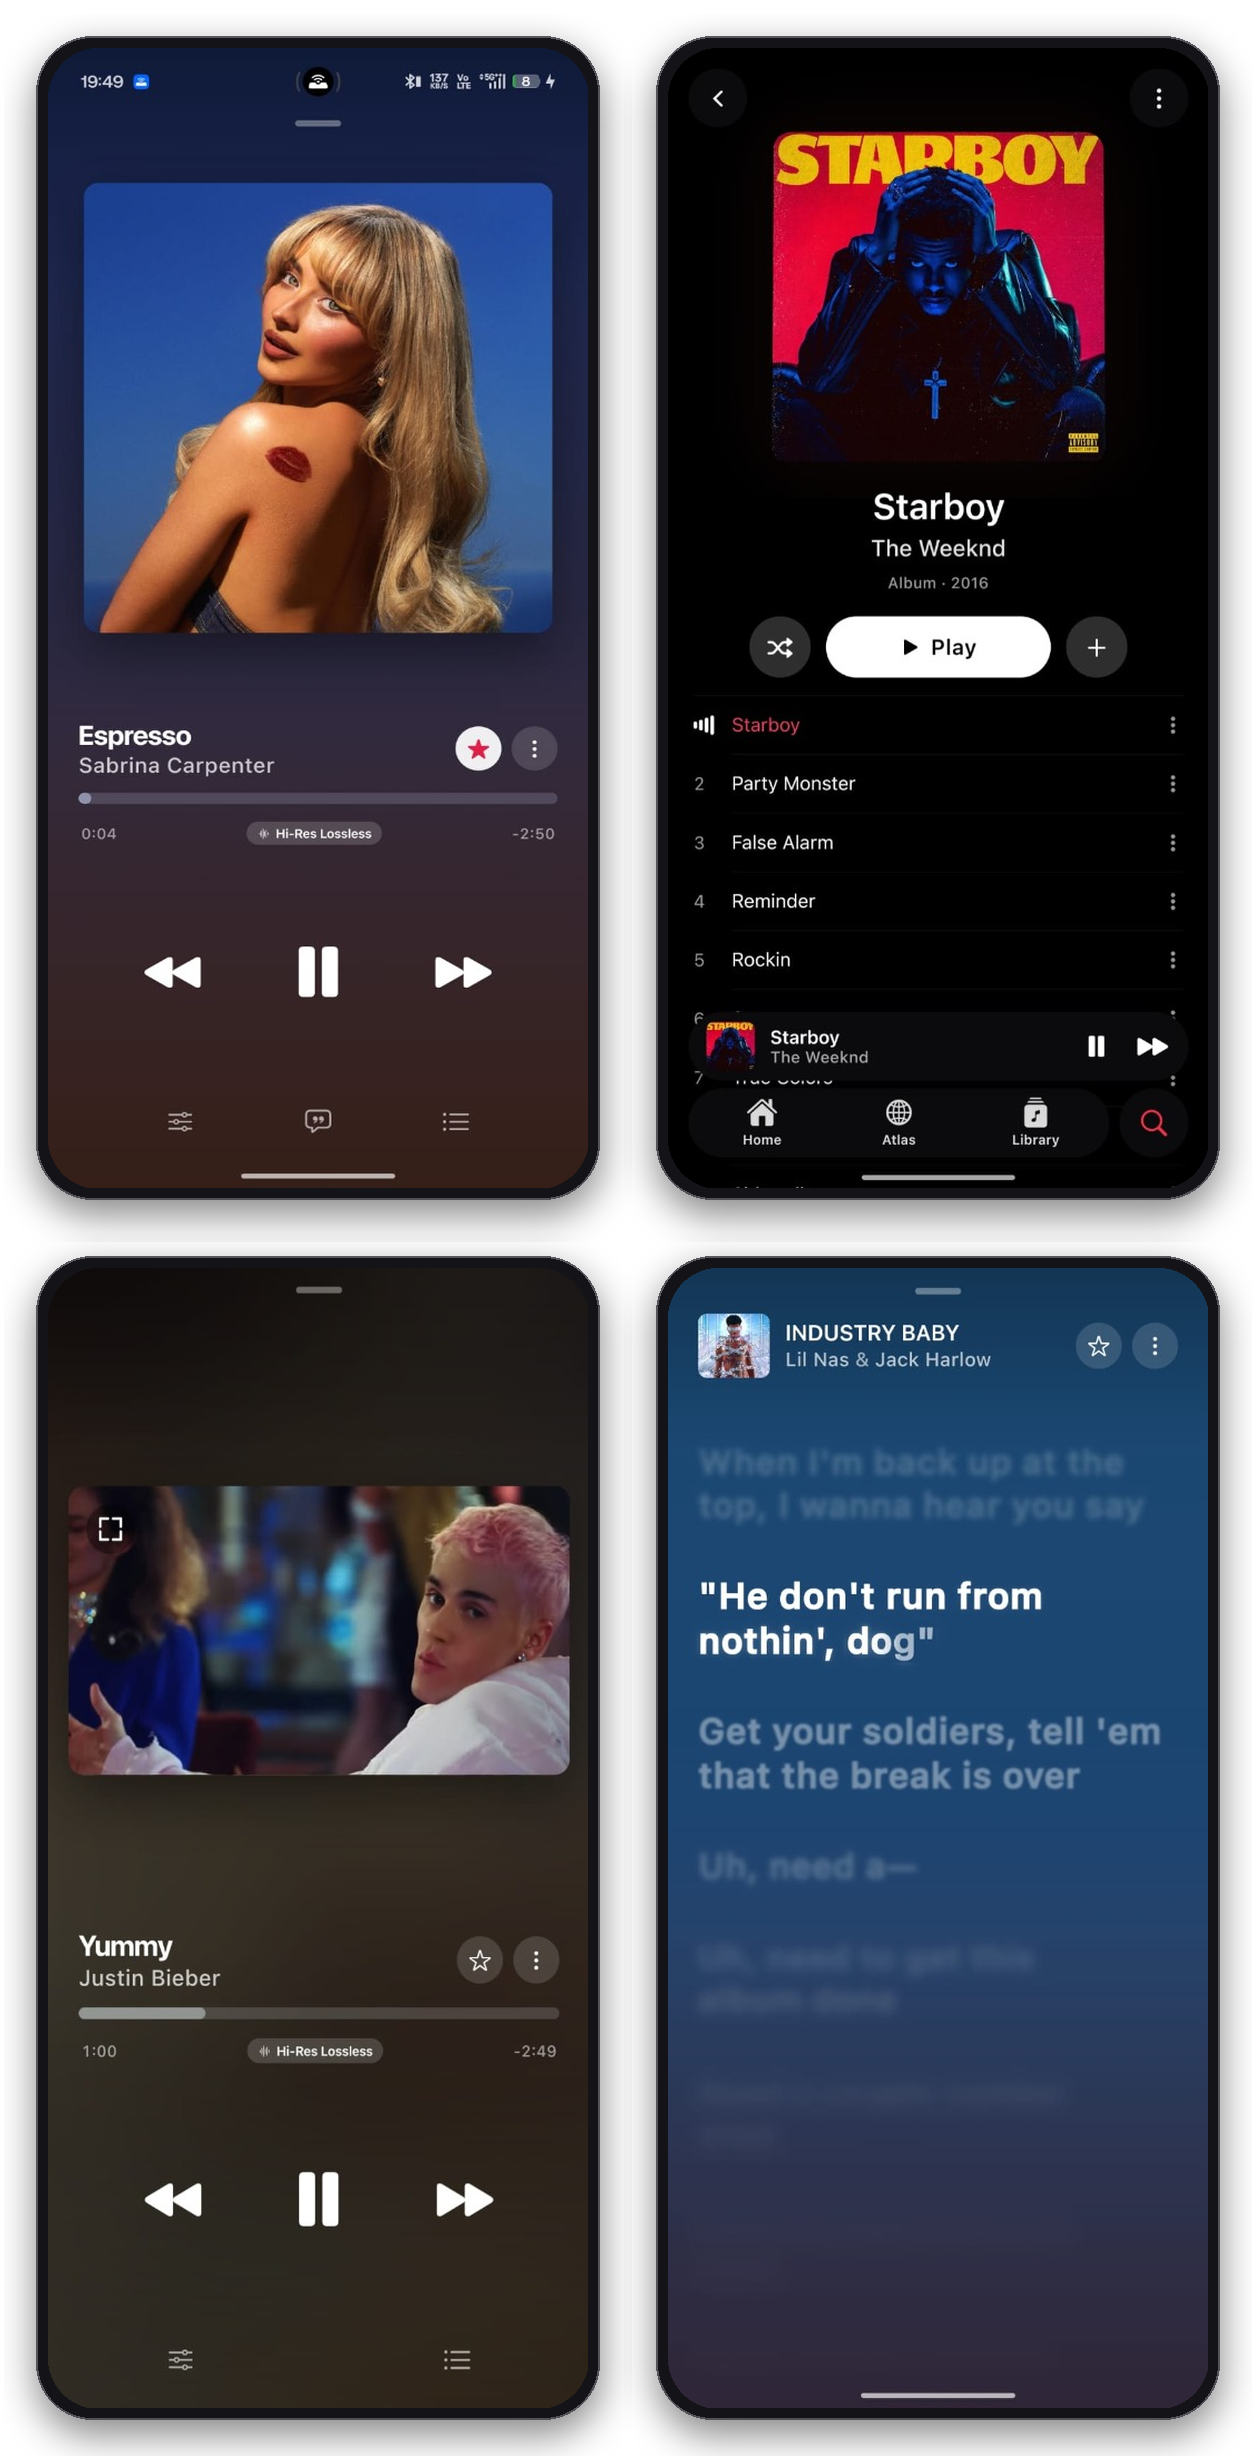
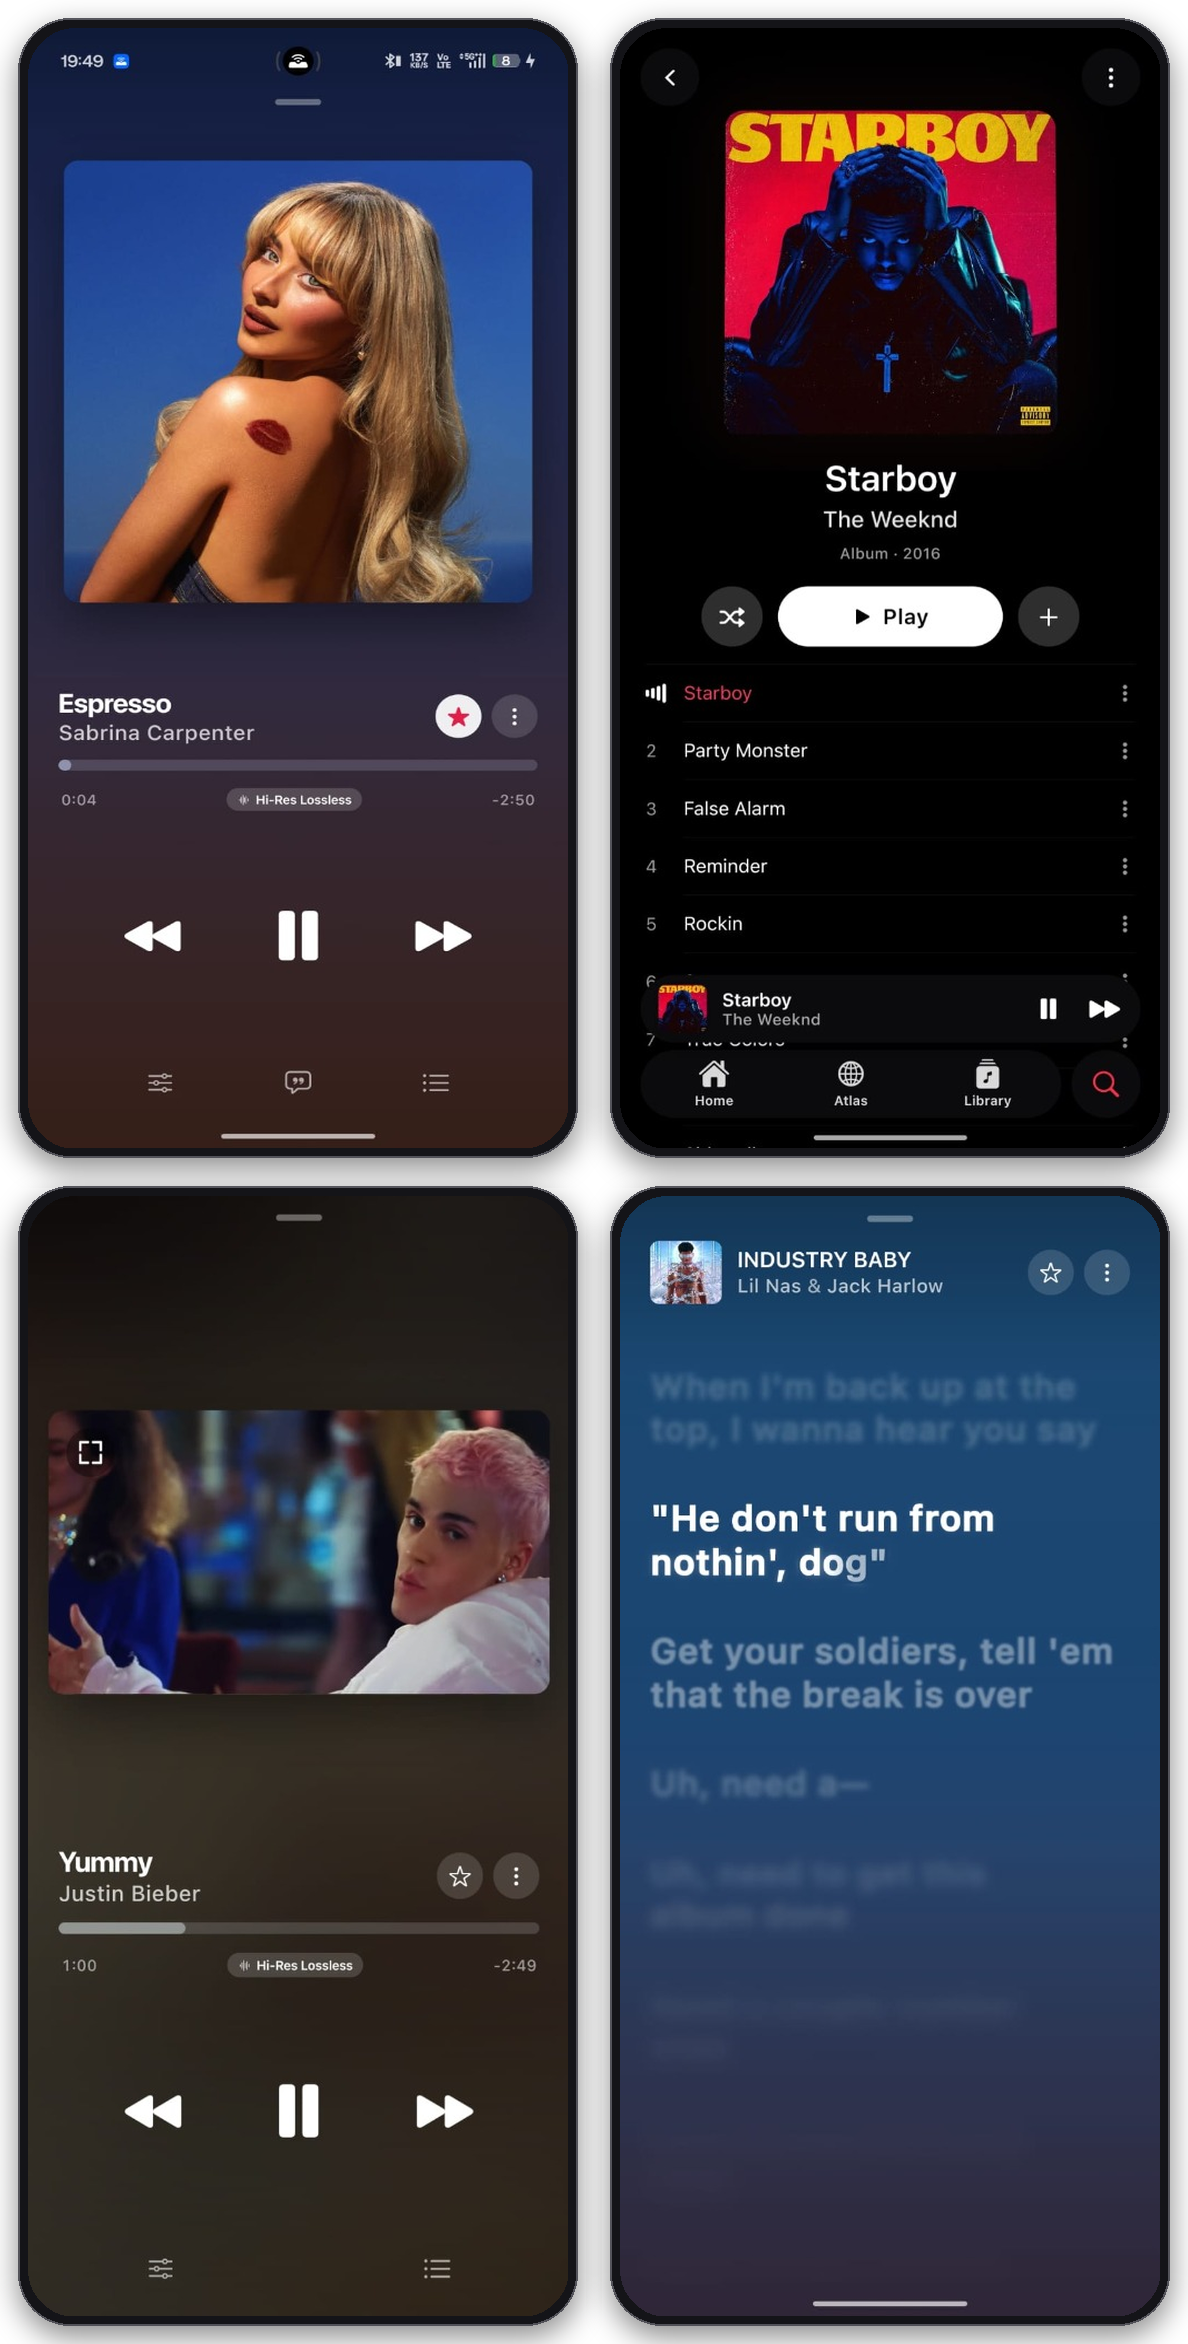
docs(readme): size 2x2 hero showcase to balanced 540px width

diff --git a/README.md b/README.md
@@ -56,7 +56,7 @@
   <br />
 
   <p align="center">
-    <img src="assets/screenshots/hero_showcase.png" alt="Zenify Android Showcase — Now Playing, Album View, 16:9 Video Player, and Syllable-Synced Lyrics" width="100%" />
+    <img src="assets/screenshots/hero_showcase.png" alt="Zenify Android Showcase — Now Playing, Album View, 16:9 Video Player, and Syllable-Synced Lyrics" width="540" />
   </p>
   <p align="center">
     <sub><b>Now Playing (Hi-Res)</b> &nbsp;•&nbsp; <b>Album &amp; Floating Dock</b> &nbsp;•&nbsp; <b>16:9 Video Player</b> &nbsp;•&nbsp; <b>Karaoke Lyrics</b></sub>
